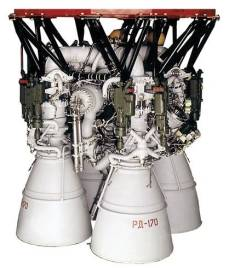
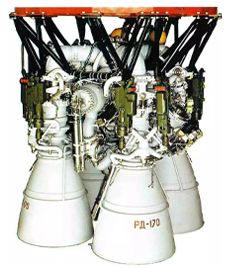
engine thumbs and big update

diff --git a/b14643/Spacerockets_1/East_Europe_2/Energiya/Propulsion/engines.htm b/b14643/Spacerockets_1/East_Europe_2/Energiya/Propulsion/engines.htm
@@ -22,23 +22,24 @@
       <td width="27%" height="1" bgcolor="#FFFFCC" nowrap>
       <p align="center"><font size="1"><br>
       <a target="_blank" href="../Gallery/RD-0120_1big.jpg">
-      <img border="1" src="../Gallery/RD-0120_1.jpg" width="177" height="280"></a><br>
+      <img border="1" src="../Gallery/RD-0120_1big.jpg" width="209" height="280"></a><br>
       </font><font color="#000080" size="2">RD-0120 (type 2)</font></p>
       </td>
       <td width="27%" height="1" bgcolor="#FFFFCC" nowrap>
       <p align="center"><font size="1"><br>
       <a style="padding: 0" target="_blank" href="../../../../Spacerockets/Specials/Russian_Rocket_engines/RD-58S.jpg">
       <img border="1" src="../Gallery/RD-58S.jpg" width="154" height="286"></a><br>
-      </font><font color="#000080" size="2">RD-58S</font></p>
+      </font><font color="#000080" size="2">RD-58S (17D12)</font></p>
       </td>
     </tr>
     <tr>
       <td width="100%" height="1" bgcolor="#FFFFCC" nowrap colspan="3">
       <p align="center"><font size="1"><br>
-      <img border="0" src="../Gallery/RD-170_2.jpg" width="197" height="270">&nbsp;&nbsp;&nbsp;&nbsp;
+      <a target="_blank" href="../Gallery/RD-170_5big.jpg">
+      <img border="0" src="../Gallery/RD-170_5.jpg" width="197" height="270">&nbsp;&nbsp;&nbsp;&nbsp;
       <a target="_blank" href="../Gallery/RD-170_4big.jpg">
       <img border="1" src="../Gallery/RD-170_4.jpg" width="220" height="270"></a>&nbsp;&nbsp;&nbsp;&nbsp;
-      <a target="_blank" href="../../../../Spacerockets/Specials/Russian_Rocket_engines/RD-170.jpg">
+      <a target="_blank" href="../Gallery/RD-170_1big.jpg">
       <img border="1" src="../Gallery/RD-170_1.jpg" width="230" height="270"></a><br>
       </font><font color="#000080" size="2">RD-170</font></p>
       </td>
